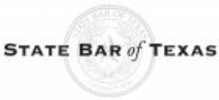
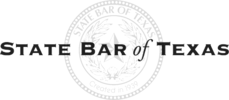
Third round: process section, founders-only team, trust badges
- Add 4-step litigation process section between positioning and practice areas
- Team section: founders only (Kelvin + Doug) with "Meet the full team" link
- Heading changed to "Our Founders", updated bios and titles
- Trust badges: replaced all 11 with trimmed, high-res originals (white bg removed)
- Texas Bar College logo replaced with higher quality source

diff --git a/homepage-v1/index.html b/homepage-v1/index.html
@@ -538,6 +538,66 @@
     }
 
     /* ===========================================
+       PROCESS
+       =========================================== */
+    .process {
+      padding: 60px 0 120px;
+    }
+    .process h2 {
+      font-family: var(--font-heading);
+      font-size: clamp(30px, 3.5vw, 46px);
+      font-weight: 700;
+      line-height: 1.15;
+      letter-spacing: -0.015em;
+      color: var(--teal);
+      margin-bottom: 16px;
+    }
+    .process-rule {
+      border: none;
+      height: 1px;
+      background: var(--teal-15);
+      margin-bottom: 0;
+    }
+    .process-grid {
+      display: grid;
+      grid-template-columns: repeat(4, 1fr);
+      gap: 0;
+      margin-top: 48px;
+    }
+    .process-cell {
+      padding: 48px 32px;
+    }
+    .process-cell + .process-cell {
+      border-left: 1px solid var(--teal-15);
+    }
+    .process-cell:first-child {
+      padding-left: 0;
+    }
+    .process-cell:last-child {
+      padding-right: 0;
+    }
+    .process-step {
+      display: block;
+      font-family: var(--font-heading);
+      font-size: clamp(36px, 4vw, 52px);
+      font-weight: 700;
+      line-height: 1;
+      color: var(--orange);
+      margin-bottom: 16px;
+    }
+    .process-title {
+      font-size: 19px;
+      font-weight: 600;
+      color: var(--teal);
+      margin-bottom: 10px;
+    }
+    .process-desc {
+      font-size: 15px;
+      line-height: 1.6;
+      color: var(--teal-60);
+    }
+
+    /* ===========================================
        PRACTICE AREAS
        =========================================== */
     .practice-areas {
@@ -666,8 +726,8 @@
       opacity: 0.55;
     }
     .team-member-photo {
-      width: 140px;
-      height: 140px;
+      width: 180px;
+      height: 180px;
       border-radius: 50%;
       overflow: hidden;
       margin-bottom: 12px;
@@ -703,7 +763,7 @@
       font-weight: 400;
       color: var(--teal-30);
       margin-top: 4px;
-      max-width: 160px;
+      max-width: 220px;
       line-height: 1.4;
     }
     .team-detail {
@@ -733,6 +793,22 @@
     }
     .team-profile-link:hover { gap: 10px; }
     .team-profile-link svg { width: 14px; height: 14px; }
+    .team-cta {
+      display: flex;
+      justify-content: center;
+      margin-top: 40px;
+    }
+    .team-cta a {
+      display: inline-flex;
+      align-items: center;
+      gap: 6px;
+      font-size: 16px;
+      font-weight: 600;
+      color: var(--orange);
+      transition: gap 200ms ease;
+    }
+    .team-cta a:hover { gap: 10px; }
+    .team-cta a svg { width: 14px; height: 14px; }
 
     /* ===========================================
        CASE RESULTS
@@ -1215,6 +1291,13 @@
 
       .practice-areas { padding: 72px 0; }
       .practice-areas .container { padding: 0 24px; }
+      .process { padding: 72px 0; }
+      .process .container { padding: 0 24px; }
+      .process-grid { grid-template-columns: 1fr; }
+      .process-cell + .process-cell { border-left: none; border-top: 1px solid var(--teal-15); }
+      .process-cell { padding: 32px 0; }
+      .process-cell:first-child { padding-left: 0; }
+      .process-cell:last-child { padding-right: 0; }
       .practice-grid { grid-template-columns: 1fr; }
       .practice-cell:nth-child(odd) { border-right: none; }
       .practice-cell:nth-child(-n+4) { border-bottom: 1px solid var(--teal-15); }
@@ -1227,7 +1310,7 @@
       .team .container { padding: 0 24px; }
       .team-grid { flex-wrap: wrap; gap: 20px; }
       .team-member { flex-shrink: 1; }
-      .team-member-photo { width: 88px !important; height: 88px !important; }
+      .team-member-photo { width: 110px !important; height: 110px !important; }
 
       .case-results { padding: 72px 0; }
       .case-results .container { padding: 0 24px; }
@@ -1412,6 +1495,36 @@
     </div>
   </section>
 
+  <!-- Process -->
+  <section class="process" id="process">
+    <div class="container">
+      <h2 class="reveal">Our Process</h2>
+      <hr class="process-rule reveal" data-delay="1">
+      <div class="process-grid">
+        <div class="process-cell reveal" data-delay="1">
+          <span class="process-step">01</span>
+          <div class="process-title">Case Assessment &amp; Strategy</div>
+          <p class="process-desc">We review the governing documents, build a factual timeline, gather key evidence, confirm deadlines, and align the legal approach with the client's business objectives.</p>
+        </div>
+        <div class="process-cell reveal" data-delay="2">
+          <span class="process-step">02</span>
+          <div class="process-title">Demand &amp; Early Protective Action</div>
+          <p class="process-desc">We send a strategic demand letter identifying the dispute, proposing solutions, and setting a deadline. When assets or trade secrets are at risk, we seek immediate court relief to prevent further harm.</p>
+        </div>
+        <div class="process-cell reveal" data-delay="2">
+          <span class="process-step">03</span>
+          <div class="process-title">Negotiation &amp; Case Development</div>
+          <p class="process-desc">We pursue negotiation or mediation where productive, while continuing to preserve evidence and develop the case so leverage remains intact if settlement efforts do not succeed.</p>
+        </div>
+        <div class="process-cell reveal" data-delay="3">
+          <span class="process-step">04</span>
+          <div class="process-title">Litigation, Trial &amp; Enforcement</div>
+          <p class="process-desc">If a resolution is not reached, we file suit, use focused motions and discovery to narrow the dispute, present the case at trial, and enforce any favorable judgment.</p>
+        </div>
+      </div>
+    </div>
+  </section>
+
   <!-- Practice Areas -->
   <section class="practice-areas" id="practice-areas">
     <div class="container">
@@ -1472,59 +1585,37 @@
   <!-- Team -->
   <section class="team" id="team">
     <div class="container">
-      <h2 class="reveal">Our Team</h2>
+      <h2 class="reveal">Our Founders</h2>
       <hr class="team-rule reveal" data-delay="1">
-      <p class="team-intro reveal" data-delay="1">A partner, an attorney, and a paralegal on every matter.</p>
+      <p class="team-intro reveal" data-delay="1">Personally invested in every matter the firm takes on.</p>
       <div class="team-grid reveal" data-delay="2" id="team-grid">
         <div class="team-member" data-index="0">
           <div class="team-member-photo">
             <img src="images/kr.jpg" alt="Kelvin Roquemore">
           </div>
           <span class="team-member-name">Kelvin Roquemore</span>
-          <span class="team-member-title">Managing Partner</span>
-          <span class="team-member-focus">Commercial litigation, fiduciary duty, partnership disputes</span>
+          <span class="team-member-title">Co-Founder &amp; Managing Partner</span>
+          <span class="team-member-focus">Commercial litigation, fiduciary duty, partnership disputes. 25+ years in Texas courts.</span>
         </div>
         <div class="team-member" data-index="1">
           <div class="team-member-photo">
             <img src="images/ds.jpg" alt="Doug Skierski">
           </div>
           <span class="team-member-name">Doug Skierski</span>
-          <span class="team-member-title">Managing Partner</span>
-          <span class="team-member-focus">Business disputes, M&amp;A litigation, injunctions</span>
-        </div>
-        <div class="team-member" data-index="2">
-          <div class="team-member-photo">
-            <img src="images/ad.jpg" alt="Alex L. Davis">
-          </div>
-          <span class="team-member-name">Alex L. Davis</span>
-          <span class="team-member-title">Real Estate &amp; Litigation</span>
-        </div>
-        <div class="team-member" data-index="3">
-          <div class="team-member-photo">
-            <img src="images/jc.jpg" alt="Jennifer L. Culver">
-          </div>
-          <span class="team-member-name">Jennifer L. Culver</span>
-          <span class="team-member-title">Commercial Litigation</span>
-        </div>
-        <div class="team-member" data-index="4">
-          <div class="team-member-photo">
-            <img src="images/aj.jpg" alt="Allison Jacobsen">
-          </div>
-          <span class="team-member-name">Allison Jacobsen</span>
-          <span class="team-member-title">Attorney</span>
-        </div>
-        <div class="team-member" data-index="5">
-          <div class="team-member-photo">
-            <img src="images/gh.jpg" alt="Gloria Hernandez">
-          </div>
-          <span class="team-member-name">Gloria Hernandez</span>
-          <span class="team-member-title">Paralegal</span>
+          <span class="team-member-title">Co-Founder &amp; Managing Partner</span>
+          <span class="team-member-focus">Business disputes, M&amp;A litigation, injunctions. 20+ years, AV-rated, credentialed mediator.</span>
         </div>
       </div>
       <div class="team-detail" id="team-detail">
         <div class="team-detail-content" id="team-detail-content">
-          <p>Every matter is staffed with a lead attorney, supporting counsel, and a paralegal. The people who build the strategy carry it through to resolution.</p>
+          <p>Supported by a team of attorneys and paralegals on every matter. The people who build the strategy carry it through to resolution.</p>
         </div>
+      </div>
+      <div class="team-cta reveal" data-delay="3">
+        <a href="#">
+          Meet the full team
+          <svg viewBox="0 0 16 16" fill="none" stroke="currentColor" stroke-width="2"><path d="M3 8h10M9 4l4 4-4 4"/></svg>
+        </a>
       </div>
     </div>
   </section>
@@ -1713,15 +1804,11 @@
       // TEAM BIOS DATA
       // ==========================================
       var teamBios = [
-        "Kelvin co-founded the firm and leads its commercial litigation practice. He represents businesses and executives in complex disputes across Texas state and federal courts, with particular depth in breach of fiduciary duty and partnership matters.",
-        "Doug co-founded the firm and focuses on business disputes, transactional litigation, and M&A-related claims. He handles matters from initial demand through trial, including injunctions and emergency relief in North Texas courts.",
-        "Alex handles real estate disputes, construction litigation, and commercial property matters. His practice spans lease disputes, construction defect claims, and real estate transactional work across the DFW metroplex.",
-        "Jennifer focuses on commercial litigation, including contract disputes, fraud claims, and fiduciary duty matters. She works closely with clients on case strategy and represents businesses in state and federal courts.",
-        "Allison brings over 32 years of legal experience to the firm. She supports the commercial and real estate practice across multiple Texas jurisdictions.",
-        "Gloria supports the firm\u2019s commercial litigation practice with a focus on client communication, case management, and legal research."
+        "Kelvin co-founded the firm and leads its commercial litigation practice. A veteran Dallas attorney with over 25 years of courtroom experience, he represents businesses and executives in high-stakes disputes, with particular depth in partnership conflicts, fiduciary duty claims, and emergency injunctive relief. Previously a litigator at an AM 200 firm, senior counsel for a Fortune 500 company, and a commercial lender.",
+        "Doug co-founded the firm and is an AV-rated attorney with more than 20 years of experience in commercial litigation, bankruptcy, and creditors\u2019 rights. He is also a Credentialed Distinguished Mediator and arbitrator. His practice focuses on breach of contract, partnership and shareholder disputes, and complex commercial restructuring for small and mid-sized enterprises."
       ];
 
-      var defaultTeamText = "Every matter is staffed with a lead attorney, supporting counsel, and a paralegal. The people who build the strategy carry it through to resolution.";
+      var defaultTeamText = "Supported by a team of attorneys and paralegals on every matter. The people who build the strategy carry it through to resolution.";
 
       // ==========================================
       // NAVIGATION
